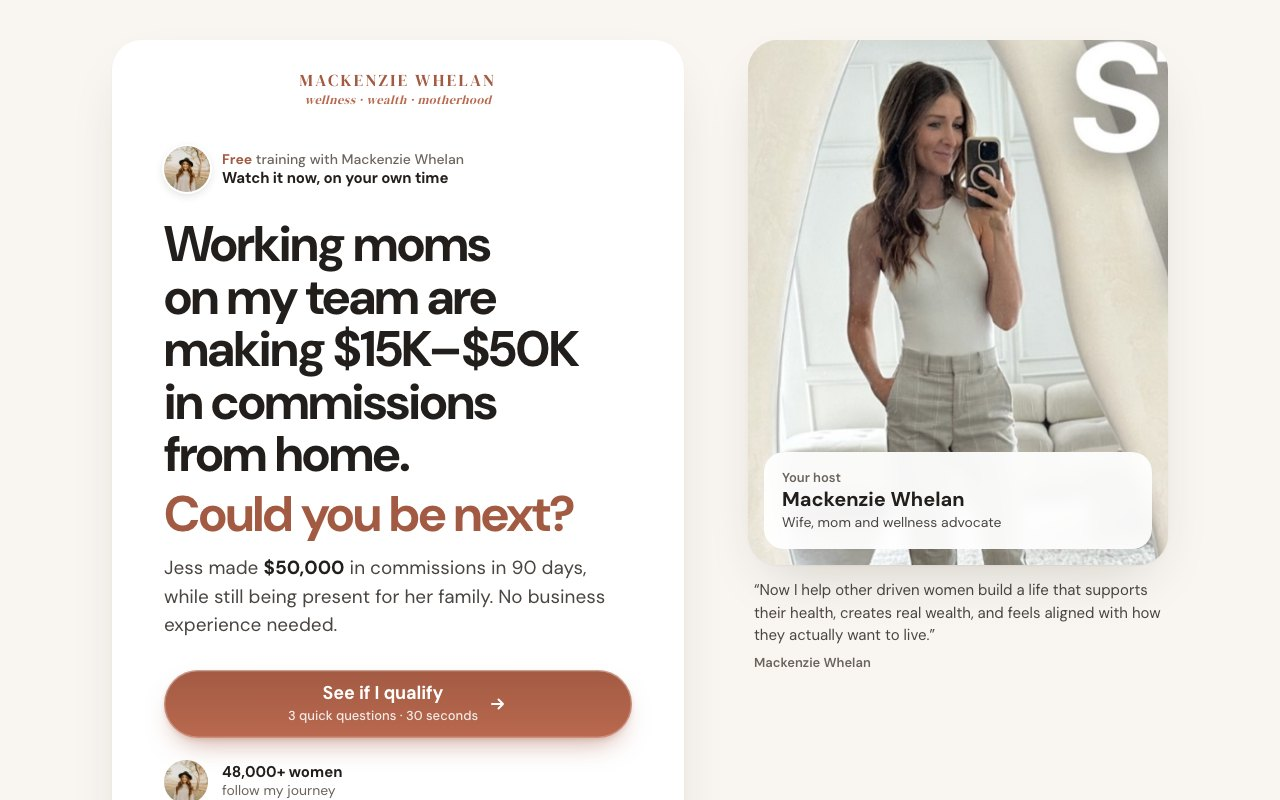
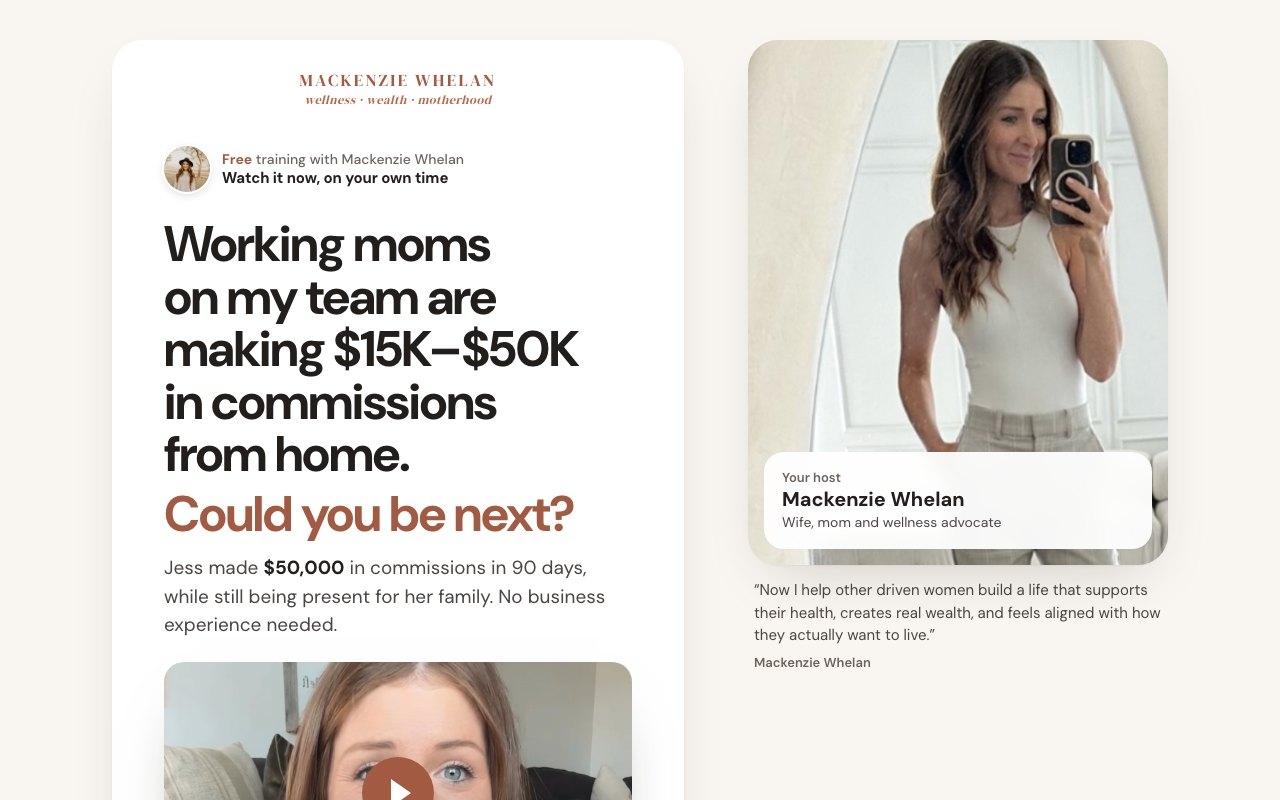
Landing: simple application instead of quiz

Changed region(s): [[0.5938, 0.0312, 0.9375, 0.7188], [0.125, 0.8125, 0.5, 1.0]]

diff --git a/vsl/index.html b/vsl/index.html
@@ -247,8 +247,17 @@ html:not(.qz) form,html:not(.qz) .step~.step{margin-top:36px;padding-top:12px;bo
 .mw-wins img{width:100%;border-radius:10px;display:block}
 .mw-wins figcaption{font-size:.82rem;line-height:1.35;color:#6b645d;padding:8px 4px 2px}
 .mw-wins figcaption b{color:#221e1b}
+.mw-vid{position:relative;display:block;margin:22px 0 0;aspect-ratio:16/9;border-radius:20px;overflow:hidden;box-shadow:0 30px 60px -34px rgba(40,28,18,.55)}
+.mw-vid img{width:100%;height:100%;object-fit:cover;display:block}
+.mw-vid:after{content:"";position:absolute;inset:0;background:linear-gradient(180deg,transparent 45%,rgba(0,0,0,.55))}
+.mw-play{position:absolute;left:50%;top:50%;width:72px;height:72px;margin:-36px 0 0 -36px;border-radius:50%;background:var(--red);z-index:2}
+.mw-play:before{content:"";position:absolute;left:29px;top:22px;border-left:20px solid #fff;border-top:14px solid transparent;border-bottom:14px solid transparent}
+.mw-cap{position:absolute;left:18px;bottom:16px;z-index:2;color:#fff;font-weight:700;line-height:1.25}
+.mw-cap small{display:block;width:max-content;margin-bottom:6px;padding:4px 10px;border-radius:999px;background:rgba(255,255,255,.2);font-size:.7rem;letter-spacing:.14em;text-transform:uppercase}
+.mw-apply{margin-top:28px;scroll-margin-top:16px}.mw-apply .fields{margin-top:16px}.mw-apply .submit{margin-top:16px}
+.mw-done{margin-top:14px;font-weight:700;color:var(--red)}
 </style>
-<script>document.documentElement.classList.add("qz")</script>
+
 <script data-topfix>try{if("scrollRestoration" in history)history.scrollRestoration="manual"}catch(e){}addEventListener("load",function(){if(!location.hash){scrollTo(0,0);setTimeout(function(){scrollTo(0,0)},50)}});</script>
 </head>
 <body>
@@ -257,7 +266,7 @@ html:not(.qz) form,html:not(.qz) .step~.step{margin-top:36px;padding-top:12px;bo
 <div class="app">
 
   <div class="bar">
-    <button type="button" class="back" data-back hidden><svg viewBox="0 0 24 24" aria-hidden="true"><path d="M14.5 6l-6 6 6 6" fill="none" stroke="currentColor" stroke-width="2" stroke-linecap="round" stroke-linejoin="round"/></svg>Back</button>
+    <button type="button" class="back" data-back hidden style="display:none"><svg viewBox="0 0 24 24" aria-hidden="true"><path d="M14.5 6l-6 6 6 6" fill="none" stroke="currentColor" stroke-width="2" stroke-linecap="round" stroke-linejoin="round"/></svg>Back</button>
     <span class="logo mw-logo">Mackenzie Whelan<i>wellness · wealth · motherhood</i></span>
     <span class="count" data-count></span>
   </div>
@@ -276,8 +285,9 @@ html:not(.qz) form,html:not(.qz) .step~.step{margin-top:36px;padding-top:12px;bo
     <h1 id="h-intro">Working moms on my team are making $15K–$50K in commissions from home. <span class="q">Could you be next?</span></h1>
     <p class="lede">Jess made <b class="nw">$50,000</b> in commissions in 90 days, while still being present for her family. No business experience&nbsp;needed.</p>
 
+    <a class="mw-vid" href="#apply" aria-label="Watch the free training"><img src="../assets/img/vsl-thumb.jpg?v=9" alt="Mackenzie Whelan"><span class="mw-play"></span><span class="mw-cap"><small>Free training</small>How I built a second income online</span></a>
     <div class="cta">
-      <a class="btn btn-2" href="#q1" data-hlc-start><span class="stack"><span>See if I qualify</span> <span class="sm">3 quick questions · 30 seconds</span></span><svg viewBox="0 0 20 20" aria-hidden="true"><path d="M4 10h11m-4.5-4.5L15 10l-4.5 4.5" fill="none" stroke="currentColor" stroke-width="2" stroke-linecap="round" stroke-linejoin="round"/></svg></a>
+      <a class="btn btn-2" href="#apply"><span class="stack"><span>Apply now</span> <span class="sm">Takes about 60 seconds</span></span><svg viewBox="0 0 20 20" aria-hidden="true"><path d="M4 10h11m-4.5-4.5L15 10l-4.5 4.5" fill="none" stroke="currentColor" stroke-width="2" stroke-linecap="round" stroke-linejoin="round"/></svg></a>
     </div>
 
     <div class="trust">
@@ -324,7 +334,7 @@ html:not(.qz) form,html:not(.qz) .step~.step{margin-top:36px;padding-top:12px;bo
           <li><svg class="ic" aria-hidden="true"><use href="#i-ok"/></svg><span>Why I&rsquo;d never recommend a traditional side hustle to a working&nbsp;mom</span></li>
           <li><svg class="ic" aria-hidden="true"><use href="#i-ok"/></svg><span>The 3 things that helped the women on my team, step by&nbsp;step</span></li>
         </ul>
-        <p class="bonus"><b>Watch to the end</b> to see how to book a free call with me and find out if it fits your&nbsp;life.</p>
+        <p class="bonus"><b>Watch to the end</b>, then apply below and I&rsquo;ll set up a call with&nbsp;you.</p>
       </div>
 
       <h2 class="sec-h">Real moms. Real numbers.</h2>
@@ -341,97 +351,30 @@ html:not(.qz) form,html:not(.qz) .step~.step{margin-top:36px;padding-top:12px;bo
       </figure>
 
       <div class="again">
-        <a class="btn" href="#q1" data-hlc-start><span>See if I qualify</span><svg viewBox="0 0 20 20" aria-hidden="true"><path d="M4 10h11m-4.5-4.5L15 10l-4.5 4.5" fill="none" stroke="currentColor" stroke-width="2" stroke-linecap="round" stroke-linejoin="round"/></svg></a>
-        <p class="again-note">Free training · Watch it now</p>
+        <a class="btn" href="#apply"><span>Apply now</span><svg viewBox="0 0 20 20" aria-hidden="true"><path d="M4 10h11m-4.5-4.5L15 10l-4.5 4.5" fill="none" stroke="currentColor" stroke-width="2" stroke-linecap="round" stroke-linejoin="round"/></svg></a>
+        <p class="again-note">Takes about 60 seconds</p>
       </div>
     </div>
   </section>
 
-  <form id="optin-form" data-hlc-optin method="post" action="/api/optin?redirect=/natural-born-yapper-c">
-    <input type="hidden" name="quiz_experience" value="" data-answer disabled>
-    <input type="hidden" name="quiz_income_goal" value="" data-answer disabled>
-    <input type="hidden" name="quiz_availability" value="" data-answer disabled>
-
-    <!-- ===== Q1 ===== -->
-    <fieldset class="step step-jobs" data-step="1" id="q1" aria-labelledby="q1-t">
-      <div class="q-head">
-        <h2 class="q-title" id="q1-t" data-focus tabindex="-1">What do you do right now?</h2>
-        <p class="q-hint">Pick the closest one. Everyone&rsquo;s welcome.</p>
-      </div>
-      <div class="opts opts-jobs">
-        <label class="opt"><input type="radio" name="quiz_experience" value="Working mom with a career" data-fit="You already juggle deadlines and family. The systems are built for exactly that&nbsp;schedule."><span class="opt-card"><span class="opt-ico" aria-hidden="true">💼</span><span class="opt-txt">Working mom with a career</span><span class="opt-dot" aria-hidden="true"></span></span></label>
-        <label class="opt"><input type="radio" name="quiz_experience" value="Stay-at-home mom" data-fit="You already run a home. This builds an income around the time you actually&nbsp;have."><span class="opt-card"><span class="opt-ico" aria-hidden="true">🏡</span><span class="opt-txt">Stay-at-home mom</span><span class="opt-dot" aria-hidden="true"></span></span></label>
-        <label class="opt"><input type="radio" name="quiz_experience" value="Nurse or teacher" data-fit="You already take care of people all day. Talking about wellness comes&nbsp;naturally."><span class="opt-card"><span class="opt-ico" aria-hidden="true">🩺</span><span class="opt-txt">Nurse or teacher</span><span class="opt-dot" aria-hidden="true"></span></span></label>
-        <label class="opt"><input type="radio" name="quiz_experience" value="Corporate career" data-fit="You already know how to follow a process. Here the process is already&nbsp;built."><span class="opt-card"><span class="opt-ico" aria-hidden="true">📊</span><span class="opt-txt">Corporate career</span><span class="opt-dot" aria-hidden="true"></span></span></label>
-        <label class="opt"><input type="radio" name="quiz_experience" value="Self-employed or business owner" data-fit="You already know what it takes. Here the systems and mentorship are in place for&nbsp;you."><span class="opt-card"><span class="opt-ico" aria-hidden="true">💡</span><span class="opt-txt">Self-employed or business owner</span><span class="opt-dot" aria-hidden="true"></span></span></label>
-        <label class="opt"><input type="radio" name="quiz_experience" value="Something else" data-fit="You don&rsquo;t need any experience. You follow the same steps the women on my team&nbsp;use."><span class="opt-card"><span class="opt-ico" aria-hidden="true">✨</span><span class="opt-txt">Something else</span><span class="opt-dot" aria-hidden="true"></span></span></label>
-      </div>
-    </fieldset>
-
-    <!-- ===== Q2 ===== -->
-    <fieldset class="step" data-step="2" id="q2" aria-labelledby="q2-t">
-      <div class="q-head">
-        <h2 class="q-title" id="q2-t" data-focus tabindex="-1">What would you like to make each month?</h2>
-        <p class="q-hint">Just your goal. There’s no wrong answer.</p>
-      </div>
-      <div class="opts">
-        <label class="opt"><input type="radio" name="quiz_income_goal" value="$1–3K on the side" data-goal="$1–3K on the side is where most women on my team start. The training shows you&nbsp;how."><span class="opt-card"><span class="opt-ico" aria-hidden="true">💵</span><span class="opt-txt">$1–3K on the side</span><span class="opt-dot" aria-hidden="true"></span></span></label>
-        <label class="opt"><input type="radio" name="quiz_income_goal" value="$3–5K a month" data-goal="$3–5K a month is the range the training breaks down, step by&nbsp;step."><span class="opt-card"><span class="opt-ico" aria-hidden="true">💰</span><span class="opt-txt">$3–5K a month</span><span class="opt-dot" aria-hidden="true"></span></span></label>
-        <label class="opt"><input type="radio" name="quiz_income_goal" value="$5K+ and more freedom" data-goal="$5K+ and more freedom: Jess made $50,000 in commissions in 90 days. The training shows you the&nbsp;steps."><span class="opt-card"><span class="opt-ico" aria-hidden="true">👋</span><span class="opt-txt">$5K+ and more freedom</span><span class="opt-dot" aria-hidden="true"></span></span></label>
+  <section class="card mw-apply" id="apply">
+      <p class="kick">Application</p>
+      <h2>Apply to join my team</h2>
+      <p>Fill this in and I&rsquo;ll get back to you personally to set up a call.</p>
+      <form id="apply-form" novalidate>
+        <div class="fields">
+          <div class="field"><input id="Name" name="Name" type="text" autocomplete="given-name" placeholder=" " required><label for="Name">First name</label></div>
+          <div class="field"><input id="Email" name="Email" type="email" autocomplete="email" placeholder=" " required><label for="Email">Email</label></div>
+          <div class="field"><input id="Phone" name="Phone" type="tel" autocomplete="tel" placeholder=" " required><label for="Phone">Phone number</label></div>
+          <div class="field"><input id="IG" name="IG" type="text" placeholder=" "><label for="IG">Instagram handle</label></div>
+          <div class="field"><input id="Why" name="Why" type="text" placeholder=" "><label for="Why">What would a second income change for you?</label></div>
         </div>
-    </fieldset>
-
-    <!-- ===== Q3 ===== -->
-    <fieldset class="step" data-step="3" id="q3" aria-labelledby="q3-t">
-      <div class="q-head">
-        <h2 class="q-title" id="q3-t" data-focus tabindex="-1">How much time could you give it each week?</h2>
-        <p class="q-hint">Just a rough idea. You build around your own schedule.</p>
-      </div>
-      <div class="opts">
-        <label class="opt"><input type="radio" name="quiz_availability" value="Under 5 hours" data-when="Under 5 hours a week is enough to start. You set the&nbsp;pace."><span class="opt-card"><span class="opt-ico" aria-hidden="true">🌙</span><span class="opt-txt">Under 5 hours</span><span class="opt-dot" aria-hidden="true"></span></span></label>
-        <label class="opt"><input type="radio" name="quiz_availability" value="5 to 10 hours" data-when="5 to 10 hours a week is enough to start. You set the&nbsp;pace."><span class="opt-card"><span class="opt-ico" aria-hidden="true">📅</span><span class="opt-txt">5 to 10 hours</span><span class="opt-dot" aria-hidden="true"></span></span></label>
-        <label class="opt"><input type="radio" name="quiz_availability" value="More than 10 hours" data-when="More than 10 hours a week means you can grow faster. I&rsquo;ll show you&nbsp;how."><span class="opt-card"><span class="opt-ico" aria-hidden="true">☀</span><span class="opt-txt">More than 10 hours</span><span class="opt-dot" aria-hidden="true"></span></span></label>
+        <div class="submit">
+          <button type="submit" class="btn submit-button"><span>Submit My Application</span><svg class="ic" aria-hidden="true"><use href="#i-ok"/></svg></button>
         </div>
-    </fieldset>
-
-    <!-- ===== result + form ===== -->
-    <section class="step result" data-step="4" id="fit" aria-labelledby="fit-t">
-      <div class="r-head">
-        <p class="kick kick-ok"><svg class="ic ic-solid" aria-hidden="true"><use href="#i-ok"/></svg>You qualify</p>
-        <h2 class="r-title" id="fit-t" data-focus tabindex="-1">You’re a great fit ✨</h2>
-        <p class="r-line" data-fit-line>Busy, ambitious women are exactly who this was built&nbsp;for.</p>
-        <ul class="r-plan">
-          <li><svg class="ic" aria-hidden="true"><use href="#i-ok"/></svg><span data-goal-line>Jess made $50,000 in commissions in 90 days. The training shows you the&nbsp;steps.</span></li>
-          <li><svg class="ic" aria-hidden="true"><use href="#i-ok"/></svg><span data-when-line>You build around your own schedule, not the other way&nbsp;around.</span></li>
-        </ul>
-      </div>
-
-      <div class="seat">
-        <img src="../assets/img/pfp.jpg" width="240" height="240" alt="" loading="lazy">
-        <div>
-          <p class="seat-h">Get the free training</p>
-          <p class="seat-d">Watch it now, on your own time</p>
-        </div>
-      </div>
-
-      <div class="fields">
-        <div class="field"><input id="Name" name="Name" type="text" autocomplete="given-name" maxlength="256" placeholder=" " required><label for="Name">First name</label></div>
-        <div class="field"><input id="Email" name="Email" type="email" autocomplete="email" inputmode="email" maxlength="256" placeholder=" " required><label for="Email">Email</label></div>
-        <div class="field"><input id="Phone" name="Phone" type="tel" autocomplete="tel-national" inputmode="tel" maxlength="256" placeholder=" " required><label for="Phone">Phone number</label></div>
-      </div>
-
-      <div class="submit">
-        <button type="submit" class="btn submit-button w-button" data-wait="Unlocking…"><span>Watch The Free Training</span><svg viewBox="0 0 20 20" aria-hidden="true"><path d="M4 10h11m-4.5-4.5L15 10l-4.5 4.5" fill="none" stroke="currentColor" stroke-width="2" stroke-linecap="round" stroke-linejoin="round"/></svg></button>
-      </div>
-      <p class="r-bonus">Then book a free call with me to see if it fits your&nbsp;life.</p>
-
-      <figure class="t r-t">
-        <div class="stars" role="img" aria-label="5 stars"><i></i><i></i><i></i><i></i><i></i></div>
-        <blockquote>&ldquo;Jess brought in $50K in commissions in 90 days, building her business from home while still being present for her family.&rdquo;</blockquote>
-        <figcaption>From Mackenzie&rsquo;s team wins</figcaption>
-      </figure>
+        <p class="mw-done" hidden>Thank you! I&rsquo;ll be in touch personally within 24 hours.</p>
+      </form>
     </section>
-  </form>
 </div>
 
 <aside class="aside" aria-label="Your host">
@@ -454,110 +397,7 @@ html:not(.qz) form,html:not(.qz) .step~.step{margin-top:36px;padding-top:12px;bo
 
 
 
-<script>
-(function () {
-  var d = document, html = d.documentElement;
-  try {
-    var form = d.getElementById("optin-form");
-    var back = d.querySelector("[data-back]");
-    var count = d.querySelector("[data-count]");
-    var prog = d.querySelector("[data-prog]");
-    var fill = prog.firstElementChild;
-    var fitLine = d.querySelector("[data-fit-line]");
-    var dl = (window.dataLayer = window.dataLayer || []);
-    var V = html.getAttribute("data-variant") || "qualify";
-    var PCT = [0, 25, 50, 75, 92];
-    var cur = 0, started = false, completed = false, timer = null, lastArrow = 0;
 
-    function step(n) { return d.querySelector('[data-step="' + n + '"]'); }
-    function push(o) { o.optin_variant = V; dl.push(o); }
-    function val(name) { var h = form.querySelector('input[type="hidden"][name="' + name + '"]'); return h ? h.value : ""; }
-
-    /* Step mode: the visible radios leave the form (a form id that does not
-       exist), the hidden quiz_* inputs carry the answers instead. Without JS
-       the radios post themselves and the hidden inputs stay disabled. */
-    [].forEach.call(form.querySelectorAll(".opt input"), function (r) { r.setAttribute("form", "qz-choices"); });
-    [].forEach.call(form.querySelectorAll("input[data-answer]"), function (h) { h.disabled = false; });
-
-    function go(n, dir) {
-      var to = step(n);
-      if (!to || n === cur) return;
-      step(cur).classList.remove("is-current");
-      html.setAttribute("data-dir", dir || "fwd");
-      html.classList.add("qz-go");
-      to.classList.add("is-current");
-      cur = n;
-      back.hidden = n === 0;
-      prog.hidden = n === 0;
-      fill.style.width = PCT[n] + "%";
-      count.textContent = n > 0 && n < 4 ? n + " of 3" : n === 4 ? "Last step" : "";
-      if (n === 4) {
-        var r = form.querySelector('input[name="quiz_experience"]:checked');
-        if (r && r.getAttribute("data-fit")) fitLine.textContent = r.getAttribute("data-fit");
-        [["quiz_income_goal", "data-goal", "[data-goal-line]"], ["quiz_availability", "data-when", "[data-when-line]"]].forEach(function (p) {
-          var x = form.querySelector('input[name="' + p[0] + '"]:checked'), el = d.querySelector(p[2]);
-          if (x && el && x.getAttribute(p[1])) el.textContent = x.getAttribute(p[1]);
-        });
-      }
-      window.scrollTo(0, 0);
-      var h = to.querySelector("[data-focus]");
-      if (h) h.focus({ preventScroll: true });
-    }
-
-    function choose(r, advance) {
-      var n = +r.closest("[data-step]").getAttribute("data-step");
-      var h = form.querySelector('input[type="hidden"][name="' + r.name + '"]');
-      r.checked = true;
-      if (h && h.value !== r.value) {
-        h.value = r.value;
-        push({ event: "quiz_answer", quiz_question: r.name, quiz_step: n, quiz_value: r.value });
-      }
-      if (!advance) return;
-      clearTimeout(timer);
-      timer = setTimeout(function () {
-        if (cur !== n) return;
-        if (n < 3) return go(n + 1);
-        if (!completed) {
-          completed = true;
-          push({ event: "quiz_complete", quiz_experience: val("quiz_experience"), quiz_income_goal: val("quiz_income_goal"), quiz_availability: val("quiz_availability") });
-        }
-        go(4);
-      }, 250);
-    }
-
-    d.addEventListener("click", function (e) {
-      var t = e.target;
-      if (!t.closest) return;
-      if (t.closest("[data-hlc-start]")) {
-        e.preventDefault();
-        if (!started) { started = true; push({ event: "quiz_start" }); }
-        go(1);
-        return;
-      }
-      if (t.closest("[data-back]")) {
-        e.preventDefault();
-        if (cur > 0) go(cur - 1, "back");
-        return;
-      }
-      /* A tap or Space confirms and advances; arrow keys only move the choice. */
-      if (t.matches(".opt input")) choose(t, Date.now() - lastArrow > 150);
-    });
-    form.addEventListener("keydown", function (e) {
-      if (!e.target.matches(".opt input")) return;
-      if (e.key.indexOf("Arrow") === 0) lastArrow = Date.now();
-      else if (e.key === "Enter" || (e.key === " " && e.target.checked)) { e.preventDefault(); lastArrow = 0; choose(e.target, true); }
-    });
-    form.addEventListener("change", function (e) {
-      if (e.target.matches(".opt input")) choose(e.target, false);
-    });
-  } catch (err) {
-    /* Anything unexpected: fall back to the plain scrolling page. */
-    html.classList.remove("qz", "qz-go");
-    [].forEach.call(d.querySelectorAll(".opt input"), function (r) { r.removeAttribute("form"); });
-    [].forEach.call(d.querySelectorAll("input[data-answer]"), function (h) { h.disabled = true; });
-  }
-})();
-</script>
-<script>document.getElementById("optin-form").addEventListener("submit",function(e){e.preventDefault();});</script>
+<script>document.getElementById("apply-form").addEventListener("submit",function(e){e.preventDefault();this.querySelector(".mw-done").hidden=false;});</script>
 </body>
 </html>

diff --git a/index.html b/index.html
@@ -210,9 +210,9 @@
             <span class="group__rule"></span>
           </div>
           <div class="grid grid--1">
-            <button class="pcard pcard--wide reveal" data-title="Free training + book a call" data-embed="vsl/?v=1792787539">
-              <span class="thumb thumb--wide"><span class="thumb__bar"><i></i><i></i><i></i><span class="thumb__url">your link in bio · free training</span></span><img class="thumb__img" src="assets/img/vsl-preview.jpg?v=1792787539" alt="Free training + book a call preview" loading="lazy" /></span>
-              <span class="pcard__body"><span><span class="pcard__kicker">02 · Your link in bio</span><span class="pcard__title">Free training + book a call</span><span class="pcard__desc">The page &ldquo;Work with me&rdquo; should point to: a 3-question quiz, your team&rsquo;s real results, then your free training and the call.</span></span><span class="pcard__link">Open preview <span class="arrow" aria-hidden="true"></span></span></span>
+            <button class="pcard pcard--wide reveal" data-title="Free training + book a call" data-embed="vsl/?v=1792787821">
+              <span class="thumb thumb--wide"><span class="thumb__bar"><i></i><i></i><i></i><span class="thumb__url">your link in bio · free training</span></span><img class="thumb__img" src="assets/img/vsl-preview.jpg?v=1792787821" alt="Free training + book a call preview" loading="lazy" /></span>
+              <span class="pcard__body"><span><span class="pcard__kicker">02 · Your link in bio</span><span class="pcard__title">Free training + book a call</span><span class="pcard__desc">The page &ldquo;Work with me&rdquo; should point to: your free training, your teama 3-question quiz, your team&rsquo;s real results, then your free training and the call.rsquo;s real results, and a short application.</span></span><span class="pcard__link">Open preview <span class="arrow" aria-hidden="true"></span></span></span>
             </button>
           </div>
         </div>
